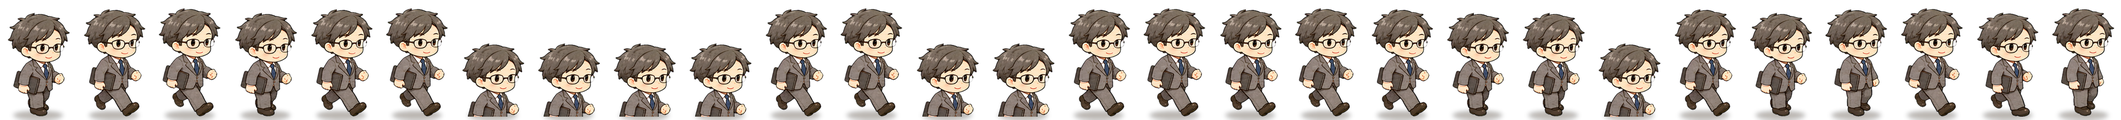
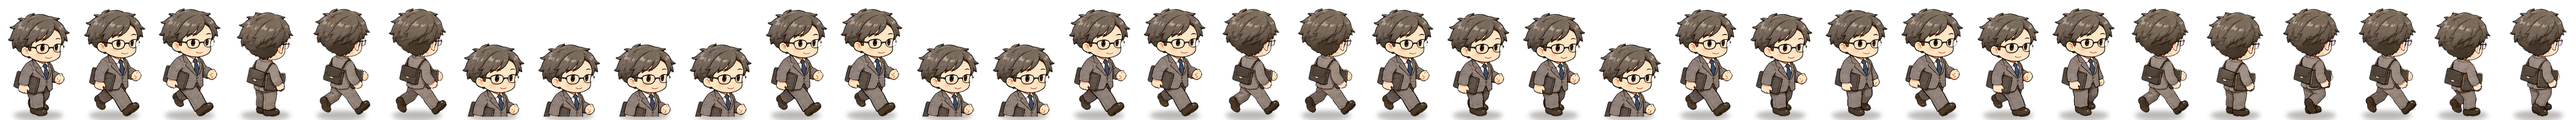
Add back-view walk cycles for all 12 characters
Claude-Session: https://claude.ai/code/session_011d3KcKFiuVo1dRnYze4gVJ

diff --git a/js/art-chibi.js b/js/art-chibi.js
@@ -4,7 +4,7 @@
 'use strict';
 const SE=root.SE; const ART=SE.ART=SE.ART||{}; const hs=(a,b,c)=>{ let h=(a*374761393+b*668265263+(c|0)*2147483647)|0; h=(h^(h>>>13))*1274126177|0; return ((h^(h>>>16))>>>0)/4294967296; };
 const SKIN=['#fbdcc2','#f4cfae','#e6b98f','#c99468','#9a6a46'], HAIR=['#2b2220','#4a3224','#7a4a2a','#b8863a','#d8b86a','#8a8f94','#3a2a4a','#7a2f2f'], FW=34, FH=54;
-const FRN=['idle','w1','w2','bidle','bw1','bw2','sit','study','talk','talk2','ex1','ex2','work','rest','r1','r2','br1','br2','sweep','happy','sad','sitchat','wk0','wk1','wk2','wk3','wk4','wk5'];
+const FRN=['idle','w1','w2','bidle','bw1','bw2','sit','study','talk','talk2','ex1','ex2','work','rest','r1','r2','br1','br2','sweep','happy','sad','sitchat','wk0','wk1','wk2','wk3','wk4','wk5','bwk0','bwk1','bwk2','bwk3','bwk4','bwk5'];
 ART.CHIBI={FW,FH,FR:FRN};
 // 由真實資料導出外觀（同一人永遠同樣外觀；年齡、年級、身分影響身高與穿著）
 ART.lookOf=(p,kind,s,stage)=>{ const id=p.id; const staff=kind==='t'; const st=stage==null?2:stage; const sx=p.sx?1:0; const R=(k,n)=>Math.floor(hs(id,k,1)*n);
@@ -63,8 +63,8 @@ ART.figure=figure;
 // 精靈圖（依外觀快取）；回傳 {cv,fw,fh,fx(frameIndex)}
 ART.chibiSheet=L=>{ const key=ART.lookKey(L); const cache=ART._cs||(ART._cs=new Map()); if(cache.has(key)) return cache.get(key); const ex=ART.external['chibi:'+key]; if(ex){ cache.set(key,ex); return ex; }
   const FR=ART.CHIBI.FR; const cv=document.createElement('canvas'); cv.width=FW*FR.length; cv.height=FH; const c=cv.getContext('2d');
-  FR.forEach((n,i)=>{ c.save(); c.beginPath(); c.rect(i*FW,0,FW,FH); c.clip(); figure(c,i*FW+FW/2,FH-4,L,/^wk\d$/.test(n)?(+n[2]&1?'w2':'w1'):n==='bidle'?'idle':n==='bw1'?'w1':n==='bw2'?'w2':n==='br1'?'r1':n==='br2'?'r2':n,n[0]==='b',1); c.restore(); }); const r={cv,fw:FW,fh:FH,ax:FW/2,ay:FH-4}; cache.set(key,r); return r; };
-ART.frameOf=(pose,t,dir)=>{ const b=dir?1:0; const f=n=>ART.CHIBI.FR.indexOf(n); const k=(t*6|0)&1; if(pose==='walk') return f('wk'+(((t*9)|0)%6)); if(pose==='run') return f(b?(((t*9|0)&1)?'br1':'br2'):(((t*9|0)&1)?'r1':'r2')); if(pose==='study') return f('study'); if(pose==='talk') return f(((t*3|0)&1)?'talk':'talk2'); if(pose==='exercise') return f(((t*5|0)&1)?'ex1':'ex2'); if(pose==='work') return f('work'); if(pose==='rest') return f('rest'); if(pose==='sit') return f('sitchat'); if(pose==='sweep') return f('sweep'); if(pose==='happy') return f('happy'); if(pose==='sad') return f('sad'); return f(b?'bidle':'idle'); };
+  FR.forEach((n,i)=>{ c.save(); c.beginPath(); c.rect(i*FW,0,FW,FH); c.clip(); figure(c,i*FW+FW/2,FH-4,L,/^b?wk\d$/.test(n)?(+n.slice(-1)&1?'w2':'w1'):n==='bidle'?'idle':n==='bw1'?'w1':n==='bw2'?'w2':n==='br1'?'r1':n==='br2'?'r2':n,n[0]==='b',1); c.restore(); }); const r={cv,fw:FW,fh:FH,ax:FW/2,ay:FH-4}; cache.set(key,r); return r; };
+ART.frameOf=(pose,t,dir)=>{ const b=dir?1:0; const f=n=>ART.CHIBI.FR.indexOf(n); const k=(t*6|0)&1; if(pose==='walk') return f((b?'bwk':'wk')+(((t*9)|0)%6)); if(pose==='run') return f(b?(((t*9|0)&1)?'br1':'br2'):(((t*9|0)&1)?'r1':'r2')); if(pose==='study') return f('study'); if(pose==='talk') return f(((t*3|0)&1)?'talk':'talk2'); if(pose==='exercise') return f(((t*5|0)&1)?'ex1':'ex2'); if(pose==='work') return f('work'); if(pose==='rest') return f('rest'); if(pose==='sit') return f('sitchat'); if(pose==='sweep') return f('sweep'); if(pose==='happy') return f('happy'); if(pose==='sad') return f('sad'); return f(b?'bidle':'idle'); };
 // 半身肖像（大頭＋肩），回傳 dataURL（快取）
 ART.portrait=(L,size)=>{ size=size||96; const key='pt|'+ART.lookKey(L)+'|'+size; const cache=ART._cs||(ART._cs=new Map()); if(cache.has(key)) return cache.get(key); const cv=document.createElement('canvas'); cv.width=cv.height=size; const c=cv.getContext('2d'); const bg=c.createLinearGradient(0,0,0,size); bg.addColorStop(0,'#efe6cf'); bg.addColorStop(1,'#d8c9a6'); c.fillStyle=bg; c.fillRect(0,0,size,size); const sc=size/30; c.save(); c.beginPath(); c.rect(0,0,size,size); c.clip(); figure(c,size/2,size*1.2,L,'idle',false,sc*.93); c.restore(); c.strokeStyle='rgba(120,84,59,.6)'; c.lineWidth=2; c.strokeRect(1,1,size-2,size-2); const u=cv.toDataURL('image/png'); cache.set(key,u); return u; };
 })(typeof window!=='undefined'?window:globalThis);

diff --git a/tools/cut_walk.py b/tools/cut_walk.py
@@ -7,7 +7,7 @@ from PIL import Image,ImageDraw,ImageFilter
 from scipy import ndimage as ndi
 ROOT=os.path.dirname(os.path.dirname(os.path.abspath(__file__)))
 FW,FH,Q=34,54,4
-FRN=['idle','w1','w2','bidle','bw1','bw2','sit','study','talk','talk2','ex1','ex2','work','rest','r1','r2','br1','br2','sweep','happy','sad','sitchat','wk0','wk1','wk2','wk3','wk4','wk5']
+FRN=['idle','w1','w2','bidle','bw1','bw2','sit','study','talk','talk2','ex1','ex2','work','rest','r1','r2','br1','br2','sweep','happy','sad','sitchat','wk0','wk1','wk2','wk3','wk4','wk5','bwk0','bwk1','bwk2','bwk3','bwk4','bwk5']
 def key(im):
     a=np.array(im.convert('RGB')).astype(float); r,g,b=a[:,:,0],a[:,:,1],a[:,:,2]
     # 洋紅度：r、b 高、g 低
@@ -29,7 +29,9 @@ def key(im):
     A=np.array(Image.fromarray(A).filter(ImageFilter.MinFilter(3))) ; A=np.array(Image.fromarray(A).filter(ImageFilter.GaussianBlur(.6)))
     return Image.fromarray(np.dstack([out.clip(0,255).astype(np.uint8),A]),'RGBA')
 def frames(path):
-    im=key(Image.open(path)); W,H=im.size; cw=W/6; fr=[]
+    raw=Image.open(path).convert('RGB'); a=np.array(raw).astype(int); mm=(np.minimum(a[:,:,0],a[:,:,2])-a[:,:,1])>100
+    rows=np.where(mm.mean(1)>.5)[0]; raw=raw.crop((0,int(rows.min()),raw.width,int(rows.max())+1))
+    im=key(raw); W,H=im.size; cw=W/6; fr=[]
     for i in range(6):
         c=im.crop((int(i*cw),0,int((i+1)*cw),H)); fr.append(c)
     return fr
@@ -46,15 +48,15 @@ def build(path):
         if w.width>outw: w=w.crop(((w.width-outw)//2,0,(w.width-outw)//2+outw,w.height))
         P.append(w)
     return P
-def sheet(P):
+def sheet(P,B):
     idle=P[1]; sh=Image.new('RGBA',(FW*Q*len(FRN),FH*Q),(0,0,0,0))
     pick={'idle':idle,'w1':P[0],'w2':P[3],'r1':P[0],'r2':P[3],'ex1':P[0],'ex2':P[3],'sweep':P[0]}
-    for i in range(6): pick[f'wk{i}']=P[i]
+    for i in range(6): pick[f'wk{i}']=P[i]; pick[f'bwk{i}']=B[i]
+    pick.update({'bidle':B[1],'bw1':B[0],'bw2':B[3],'br1':B[0],'br2':B[3]})
     for fi,n in enumerate(FRN):
         s=pick.get(n)
         if s is None:
-            b={'bidle':'idle','bw1':'w1','bw2':'w2','br1':'r1','br2':'r2'}.get(n)
-            s=pick[b] if b else idle
+            s=idle
         if n in('sit','study','work','rest','sitchat','talk','talk2'): s=s.crop((0,0,s.width,int(s.height*.72)))
         cx=fi*FW*Q+FW*Q//2
         shd=Image.new('RGBA',sh.size,(0,0,0,0)); ImageDraw.Draw(shd).ellipse([cx-11*Q,FH*Q-4*Q,cx+11*Q,FH*Q-.5*Q],fill=(60,45,30,90)); sh.alpha_composite(shd.filter(ImageFilter.GaussianBlur(Q)))
@@ -68,11 +70,13 @@ if __name__=='__main__':
     for f in glob.glob(f'{ROOT}/assets/chars/*.png'): os.remove(f)
     groups={}
     for p in sorted(glob.glob(f'{ROOT}/assets/source/walk/*.png')):
-        n=os.path.basename(p)[:-4]; role={'s':'student','t':'teacher'}[n[0]]; sx=int(n[1]); groups.setdefault((role,sx),[]).append(p)
+        n=os.path.basename(p)[:-4]
+        if n.endswith('_back'): continue
+        role={'s':'student','t':'teacher'}[n[0]]; sx=int(n[1]); groups.setdefault((role,sx),[]).append(p)
     for (role,sx),L in groups.items():
-        shs=[sheet(build(p)) for p in L]
+        shs=[sheet(build(p),build(p[:-4]+'_back.png')) for p in L]
         for v in range(4):
             sh=shs[v%len(shs)]; fn=f'chars/{role}_{sx}_{v}.png'; sh.save(f'{ROOT}/assets/{fn}',optimize=True)
-            A[f'char:{role}:{sx}:{v}']=dict(src=fn,ox=0,oy=0,k=1,cat='char',status='final',w=sh.width,h=sh.height,fw=FW*Q,fh=FH*Q,ax=FW*Q/2,ay=FH*Q-int(1.6*Q),origin='使用者提供的 ChatGPT 走路圖（6 格走路循環；僅正面）')
+            A[f'char:{role}:{sx}:{v}']=dict(src=fn,ox=0,oy=0,k=1,cat='char',status='final',w=sh.width,h=sh.height,fw=FW*Q,fh=FH*Q,ax=FW*Q/2,ay=FH*Q-int(1.6*Q),origin='使用者提供的 ChatGPT 走路圖（6 格走路循環；正面+背面）')
         print(role,sx,len(L),'sources')
     json.dump(m,open(mp,'w'),ensure_ascii=False,indent=1)
